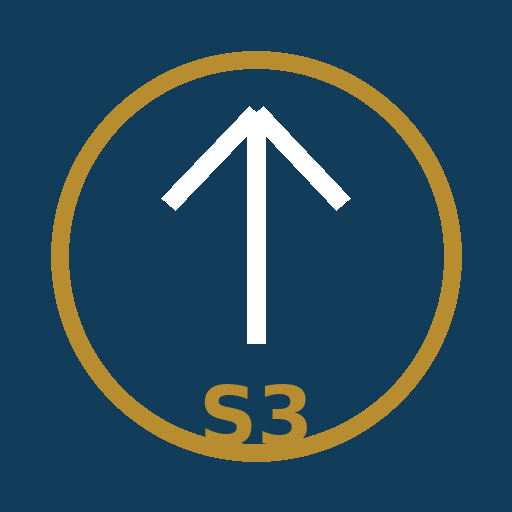
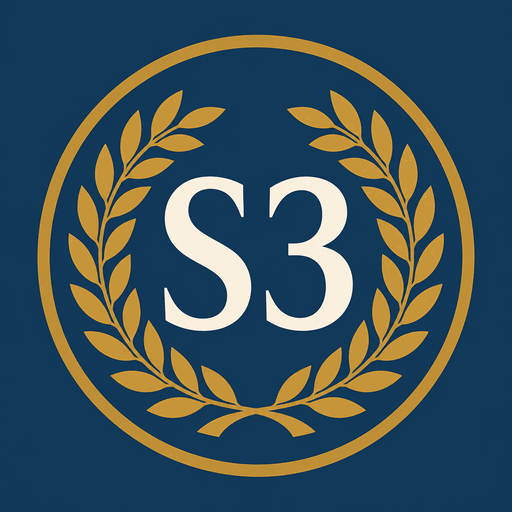
feat: renovar identidade e facilitar instalacao

diff --git a/assets/pwa-install.js b/assets/pwa-install.js
@@ -1,0 +1,35 @@
+(function(global){
+  'use strict';
+
+  var KEY='semideuses.pwa.install-prompt.v1',deferredPrompt=null,host=null;
+
+  function stored(){try{return localStorage.getItem(KEY)||'';}catch(error){return '';}}
+  function remember(value){try{localStorage.setItem(KEY,value);}catch(error){}}
+  function installed(){return Boolean((global.matchMedia&&global.matchMedia('(display-mode: standalone)').matches)||global.navigator.standalone===true);}
+  function ios(){var agent=String(global.navigator.userAgent||''),platform=String(global.navigator.platform||'');return /iphone|ipad|ipod/i.test(agent)||(platform==='MacIntel'&&Number(global.navigator.maxTouchPoints||0)>1);}
+  function remove(){if(host&&host.parentNode)host.parentNode.removeChild(host);host=null;}
+  function content(kind){
+    if(kind==='ios')return '<div class="pwa-install-icon"><img src="/icons/icon-192.png" alt=""></div><div class="pwa-install-copy"><span class="eyebrow">ACESSO RÁPIDO</span><h2>Instale no iPhone</h2><p>No Safari, toque em <strong>Compartilhar</strong>, escolha <strong>Adicionar à Tela de Início</strong> e ative <strong>Abrir como App</strong>.</p></div><div class="pwa-install-actions"><button type="button" class="primary" data-pwa-close>Entendi</button></div>';
+    return '<div class="pwa-install-icon"><img src="/icons/icon-192.png" alt=""></div><div class="pwa-install-copy"><span class="eyebrow">ACESSO RÁPIDO</span><h2>Instale o Semideuses RPG</h2><p>Abra pela tela inicial, com menos distrações e acesso mais rápido durante a sessão.</p></div><div class="pwa-install-actions"><button type="button" class="primary" data-pwa-install>Instalar aplicativo</button><button type="button" class="secondary" data-pwa-close>Agora não</button></div>';
+  }
+  function mount(kind){
+    if(installed()||stored()||host||!document.body)return;
+    host=document.createElement('aside');host.className='pwa-install-prompt '+kind;host.setAttribute('data-pwa-install-prompt',kind);host.setAttribute('role','region');host.setAttribute('aria-label','Instalar Semideuses RPG');host.innerHTML=content(kind)+'<button type="button" class="pwa-install-x" data-pwa-close aria-label="Fechar lembrete de instalação">×</button>';
+    document.body.appendChild(host);remember('shown');
+    host.querySelectorAll('[data-pwa-close]').forEach(function(button){button.onclick=remove;});
+    var install=host.querySelector('[data-pwa-install]');
+    if(install)install.onclick=async function(){
+      if(!deferredPrompt){remove();return;}
+      var prompt=deferredPrompt;deferredPrompt=null;remove();
+      await prompt.prompt();
+      try{var choice=await prompt.userChoice;if(choice&&choice.outcome==='accepted')remember('installed');}catch(error){}
+    };
+  }
+  function schedule(kind){var show=function(){global.setTimeout(function(){mount(kind);},700);};if(document.readyState==='loading')document.addEventListener('DOMContentLoaded',show,{once:true});else show();}
+
+  global.addEventListener('beforeinstallprompt',function(event){event.preventDefault();deferredPrompt=event;schedule('native');});
+  global.addEventListener('appinstalled',function(){remember('installed');remove();deferredPrompt=null;});
+  if(ios()&&!installed())schedule('ios');
+
+  global.SemideusesPWAInstall={version:'pwa-install-0.1.0',storageKey:KEY,isInstalled:installed,isIOS:ios};
+})(window);

diff --git a/assets/pwa-install.css b/assets/pwa-install.css
@@ -1,0 +1,96 @@
+.pwa-install-prompt {
+  position: fixed;
+  z-index: 80;
+  left: 50%;
+  bottom: calc(88px + env(safe-area-inset-bottom));
+  display: grid;
+  grid-template-columns: 66px minmax(0, 1fr) auto;
+  gap: 14px;
+  align-items: center;
+  width: min(720px, calc(100vw - 24px));
+  padding: 15px 44px 15px 15px;
+  transform: translateX(-50%);
+  border: 1px solid rgba(201, 149, 32, .45);
+  border-radius: 18px;
+  background: #fffdf8;
+  box-shadow: 0 18px 55px rgba(13, 46, 68, .28);
+}
+
+.pwa-install-icon {
+  width: 66px;
+  height: 66px;
+  overflow: hidden;
+  border-radius: 16px;
+  box-shadow: 0 4px 14px rgba(13, 46, 68, .22);
+}
+
+.pwa-install-icon img {
+  display: block;
+  width: 100%;
+  height: 100%;
+}
+
+.pwa-install-copy h2 {
+  margin: 2px 0 4px;
+  color: var(--blue);
+  font-size: 1.08rem;
+}
+
+.pwa-install-copy p {
+  margin: 0;
+  color: var(--muted);
+  font-size: .82rem;
+  line-height: 1.4;
+}
+
+.pwa-install-actions {
+  display: flex;
+  gap: 7px;
+}
+
+.pwa-install-actions button {
+  white-space: nowrap;
+}
+
+.pwa-install-x {
+  position: absolute;
+  top: 7px;
+  right: 8px;
+  display: grid;
+  place-items: center;
+  width: 30px;
+  height: 30px;
+  padding: 0;
+  border: 0;
+  border-radius: 50%;
+  color: var(--muted);
+  background: transparent;
+  font-size: 1.3rem;
+}
+
+@media (max-width: 620px) {
+  .pwa-install-prompt {
+    grid-template-columns: 54px minmax(0, 1fr);
+    gap: 10px;
+    padding: 13px 38px 13px 13px;
+  }
+
+  .pwa-install-icon {
+    width: 54px;
+    height: 54px;
+  }
+
+  .pwa-install-actions {
+    grid-column: 1 / -1;
+    display: grid;
+    grid-template-columns: 1fr 1fr;
+  }
+
+  .pwa-install-prompt.ios .pwa-install-actions {
+    grid-template-columns: 1fr;
+  }
+
+  .pwa-install-actions button {
+    width: 100%;
+  }
+}

diff --git a/index.html b/index.html
@@ -7,8 +7,8 @@
   <meta name="mobile-web-app-capable" content="yes" />
   <meta name="apple-mobile-web-app-capable" content="yes" />
   <meta name="apple-mobile-web-app-status-bar-style" content="black-translucent" />
-  <meta name="apple-mobile-web-app-title" content="Semideuses 3e" />
-  <title>Semideuses RPG 3e</title>
+  <meta name="apple-mobile-web-app-title" content="Semideuses RPG" />
+  <title>Semideuses RPG</title>
   <script>
     (function(){
       var preview=/^deploy-preview-\d+--/.test(location.hostname),params=new URLSearchParams(location.search);
@@ -19,6 +19,7 @@
   </script>
   <link rel="manifest" href="/manifest.webmanifest" />
   <link rel="apple-touch-icon" sizes="180x180" href="/icons/icon-180.png" />
+  <link rel="icon" type="image/png" sizes="32x32" href="/icons/favicon-32.png" />
   <link rel="stylesheet" href="/assets/app.css" />
   <link rel="stylesheet" href="/assets/nature-creation.css" />
   <link rel="stylesheet" href="/assets/resources.css" />
@@ -53,6 +54,7 @@
   <link rel="stylesheet" href="/assets/master-campaign.css" />
   <link rel="stylesheet" href="/assets/bestiary.css" />
   <link rel="stylesheet" href="/assets/player-notes.css" />
+  <link rel="stylesheet" href="/assets/pwa-install.css" />
 </head>
 <body>
   <div id="app"></div>
@@ -191,6 +193,7 @@
   <script defer src="/assets/player-sheet-finalization.js"></script>
   <script defer src="/assets/sheet-polish-v3.js"></script>
   <script defer src="/assets/player-notes.js"></script>
+  <script defer src="/assets/pwa-install.js"></script>
   <script defer src="/assets/pwa.js"></script>
 </body>
 </html>

diff --git a/sw.js b/sw.js
@@ -1,4 +1,4 @@
-const CACHE='semideuses-rpg-v11';
+const CACHE='semideuses-rpg-v12';
 const CORE=['/','/index.html','/manifest.webmanifest','/icons/icon-180.png','/icons/icon-192.png','/icons/icon-512.png'];
 
 async function precache(){

diff --git a/docs/SPRINT-CLAREZA-E-USABILIDADE.md b/docs/SPRINT-CLAREZA-E-USABILIDADE.md
@@ -207,6 +207,18 @@ Quando os dois livros tratarem do mesmo assunto de forma diferente, a discrepân
 - [x] Testes automatizados de validação, persistência, interface, backup e restauração.
 - [x] Deploy Preview validado: quatro categorias cadastradas, preferências de abertura preservadas, cópia local confirmada e painel recolhido conferido visualmente.
 
+### Fase 7 — identidade e instalação
+
+- [x] Nome instalado simplificado para `Semideuses RPG` no manifesto, no iPhone e no título da página.
+- [x] Novo ícone `S3 com louros`, preservando azul, dourado e leitura em tamanho pequeno.
+- [x] Ícones próprios de 180, 192 e 512 px, além do favicon e da fonte em alta resolução.
+- [x] Lembrete não bloqueante de instalação exibido somente fora do modo instalado.
+- [x] Android e navegadores Chromium usam o diálogo nativo de instalação quando disponível.
+- [x] iPhone recebe instruções para `Compartilhar → Adicionar à Tela de Início → Abrir como App`.
+- [x] O lembrete pode ser fechado e não reaparece indefinidamente no mesmo navegador.
+- [x] Testes automatizados cobrem nome, dimensões dos ícones, instalação nativa, instrução do iPhone e modo já instalado.
+- [ ] Deploy Preview e comportamento real validados.
+
 ### Discrepância oficial registrada
 
 `Mortal com Conhecimento` apresenta no livro apenas as faixas ND 1–4, PV 32–72 e CA 12–16. Como não há distribuição oficial de valores por ND, a entrada é consultável como modelo, mas não pode ser enviada automaticamente à calculadora. O Mestre deve escolher valores concretos no cadastro manual. O aplicativo não interpola nem inventa números.
@@ -219,8 +231,8 @@ Quando os dois livros tratarem do mesmo assunto de forma diferente, a discrepân
 
 ### Próximas fases propostas
 
-1. Recompensas e entrega controlada de itens aos personagens, com confirmação antes de alterar uma ficha.
-2. Revisão de clareza do módulo Mestre no celular, incluindo um teste com usuário que não conhece a organização interna.
+1. Revisão de clareza do módulo Mestre no celular, incluindo rolagem, seções recolhíveis e teste com usuário que não conhece a organização interna.
+2. Vinculação local entre sessões narrativas e encontros encerrados do próprio Mestre.
 3. Preparação de lançamento: migração, recuperação e redução do risco acumulado entre `develop` e `main`.
 
 ## S1 — ficha clara e estável no celular
@@ -314,6 +326,8 @@ Os testes atuais cobrem regras, DOM, navegação e build, mas não reproduzem pe
 - O backup do Mestre substitui todo o conjunto narrativo e de encontros ao restaurar; mesclar campanhas automaticamente criaria duplicações e relações ambíguas.
 - O backup do Mestre não inclui fichas de jogadores, porque cada ficha já possui ciclo próprio de exportação e importação.
 - Usando somente Netlify e GitHub, dados de campanha continuam locais ao navegador; backup em arquivo protege a troca de aparelho, mas não cria sincronização automática.
+- O Mestre não consegue entregar itens diretamente a fichas abertas em outros aparelhos. Essa função exigiria contas, campanhas compartilhadas e armazenamento online; um botão local daria uma falsa impressão de conexão.
+- Uma futura transferência sem contas só poderia ser manual, por arquivo ou QR aceito pelo jogador, e não deve ser descrita como entrega direta.
 
 ## Definição de pronto para cada item
 
@@ -330,4 +344,4 @@ Um item só recebe `[x]` quando:
 
 ## Próxima ação
 
-Iniciar recompensas e entrega controlada de itens. O Mestre deve preparar a recompensa, escolher uma ficha disponível e confirmar a entrega; nenhuma ficha pode ser alterada silenciosamente nem receber item duplicado por repetição acidental do comando.
+Validar no Deploy Preview o novo nome, o ícone e o lembrete de instalação. Depois, auditar todo o módulo Mestre no celular antes de acrescentar outra ferramenta.
